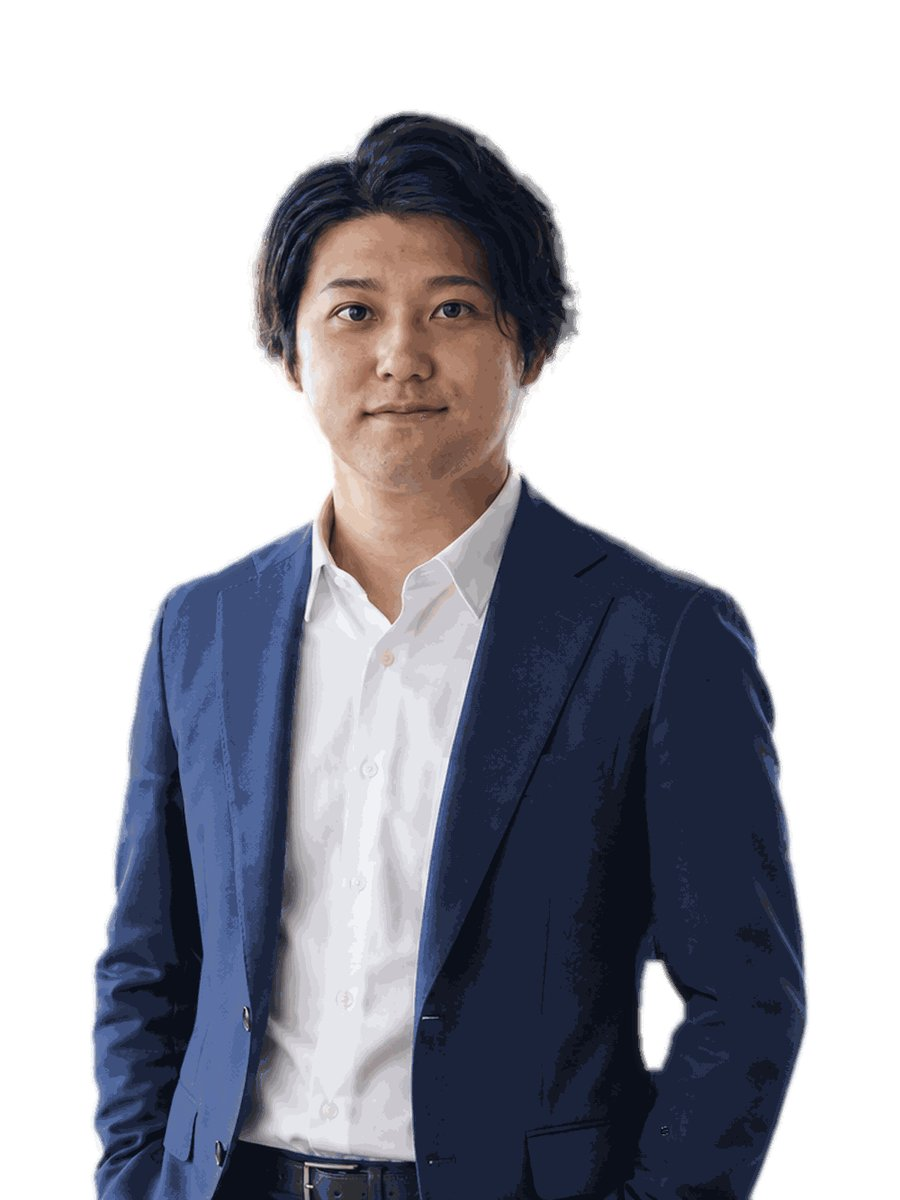
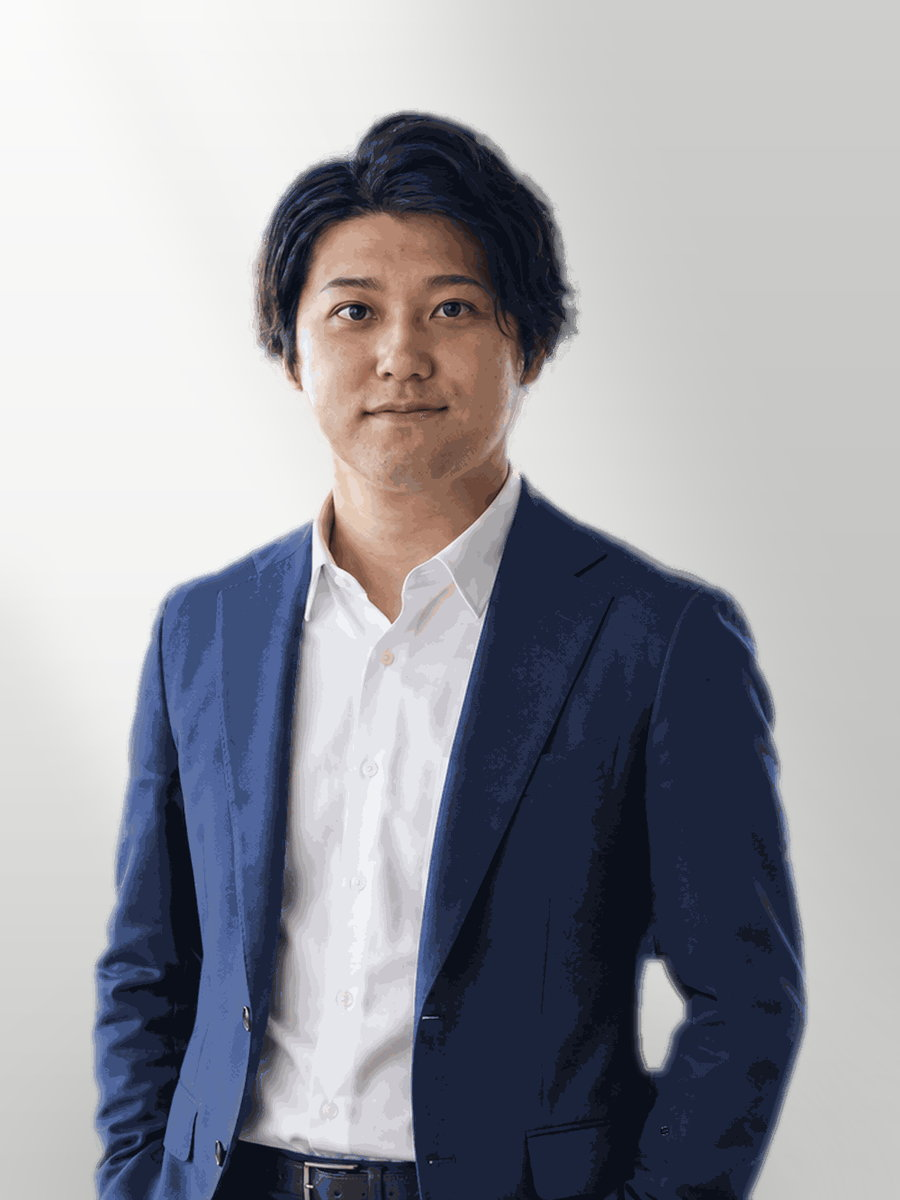
LP: 運営者写真の背景を白壁に窓光（B案）に。DESIGN.md の代表写真節を更新

diff --git a/DESIGN.md b/DESIGN.md
@@ -457,27 +457,31 @@ alt に `★` を入れない（ビルドの書きかけ判定に引っかかる
 
 ### 代表写真（2026-09-05 に解消）
 
-**FV＝紺の面に切り抜き、運営者＝白地に同じ切り抜き。撮影は同一。**
+**FV＝紺の面に切り抜き、運営者＝白壁に窓光（B案）の上に同じ切り抜き。撮影は同一。**
 代表の登場は2回だけ（DESIGN.md「代表の登場は2回まで」）なので、
 その2回が別人の別の日に見えてはいけない。
 **次に写真を差し替えるときも、2箇所を同時に、同じ切り抜きから作る。片方だけ替えない。**
 
 - ファーストビュー＝`assets/oda-cutout.png`（白シャツ・ノータイ。透過切り抜きを
   紺の面 `--blue-deep` に乗せる。800×1213・パレットPNG）
-- 運営者について＝`assets/oda.jpg`（**同じ切り抜きを白 `#FFFFFF` の上に置いた** 3:4。
+- 運営者について＝`assets/oda.jpg`（**同じ切り抜きを「白〜ライトグレーの壁に斜めの窓光」の背景に置いた** 3:4。
+  背景はPIL生成のグラデ＋ぼかし（`scratchpad/bg_build.py` のB案）。写真素材・柄・小物は入れない。
   人物は横幅の80%、下端は画像の下端、頭上の余白は画像高さの8.9%）
 
 運営者側は 2026-09-05 まで**ネクタイ・腕組み・屋外ボケの別カット**で、
 同日に**紺背景ごとの切り出し**に差し替えた。紺背景は紺スーツと同化して
-人物が読み取れなかったため、同日中に**白地版**に置き換えている。
+人物が読み取れなかったため、同日中に**白地版**に置き換え、さらに「白は印象が薄い」との判断で
+**白壁に窓光の背景（B案）**に決めた。候補は 教室ぼかし／白壁窓光／クリーム紙＋罫線／淡い紺グラデ の4案を
+実物セクションに載せて比較し、小田さんがBを選択（2026-09-05）。
 
-- **切り抜きは1つ、地色だけ変える。** FV＝紺の面に乗せて主張、運営者＝白地で人物紹介、
+- **切り抜きは1つ、背景だけ変える。** FV＝紺の面に乗せて主張、運営者＝白壁の窓光で人物紹介、
   と役割は地色で分ける。別々に切り抜き直さない
-- 白い写真がクリームの面（`.person`）に乗るが、`.person-photo` の角丸 `--r-md` と
+- 明るい写真がクリームの面（`.person`）に乗るが、`.person-photo` の角丸 `--r-md` と
   `1px solid var(--line)` のままで面として成立する。**写真のために色・影を足さない**
 - 切り抜きは紺の面で溶けないように**暗部を +25%（青みの画素のみ）持ち上げ、
   縁から内側8pxにリムライト（#DCE4F2・最大30%）**を乗せてある。
-  **白地版はリムを最大10%に落とす**（白地では光の縁が飛んで輪郭がぼける）
+  **白壁版はリムを最大10%に落とす**（明るい地では光の縁が飛んで輪郭がぼける）。
+  2026-09-05 夜に小田さんの指示で**暗部 +45%・リム最大45%**へ強めた（FV用）
 - 書き出しは JPEG 品質85・幅900px（900×1200）・300KB以下
 
 **折り返しの確認は390pxの実物で行う。** 1〜2文字だけ次行に残る形が出たら `.nb` で語ごと折る。
